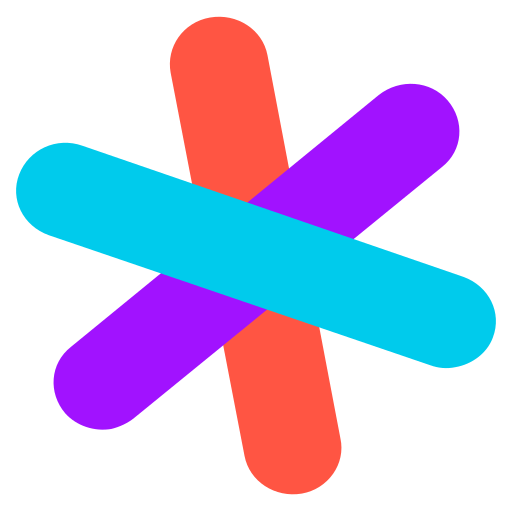
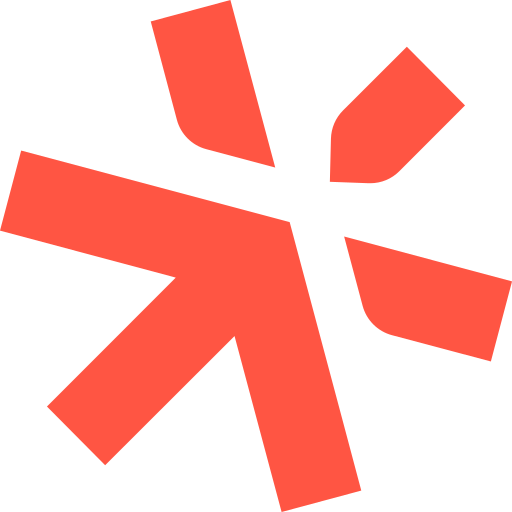
all: update branding, add workspaces mentions

diff --git a/raycast-env.d.ts b/raycast-env.d.ts
@@ -18,7 +18,7 @@ type ExtensionPreferences = {
   "customInstanceProxy"?: string,
   /** Additional features - Toggle the search pattern dropdown in the search command. */
   "featureSearchPatternDropdown": boolean,
-  /** undefined - Telemetry is only reported to the connected Sourcegraph instance, but can be disabled with this toggle. */
+  /** undefined - Telemetry is only reported to the connected Sourcegraph instance or workspace, but can be disabled with this toggle. */
   "featureDisableTelemetry": boolean
 }
 

diff --git a/README.md b/README.md
@@ -40,7 +40,7 @@ Alternatively, you can [install this extension from source](https://github.com/b
 ## Setup
 
 This extension adds a [variety of commands](#commands) for interacting with [Sourcegraph](https://about.sourcegraph.com).
-Some configuration is required to use certain features, most notably the [variants of each command for custom Sourcegraph Instances](#sourcegraph-instance), though you can get started with [Sourcegraph.com commands](#sourcegraphcom) without any additional setup.
+Some configuration is required to use certain features, most notably the [variants of each command for custom Sourcegraph Instances](#sourcegraph-instance-or-workspace), though you can get started with [Sourcegraph.com commands](#sourcegraphcom) without any additional setup.
 
 ### Sourcegraph.com
 
@@ -52,10 +52,18 @@ Copy that access token to the "Sourcegraph.com: Access token" field in the Sourc
 
 To search your private code, please reach out [get a demo of the single-tenant solution](https://sourcegraph.com/contact/request-info) or [try out a self-hosted installation of Sourcegraph](https://about.sourcegraph.com/get-started/self-hosted).
 
-### Sourcegraph Instance
+### Sourcegraph instance or workspace
 
-To start searching code on a custom Sourcegraph instance (e.g. [self-hosted](https://sourcegraph.com/docs/admin/deploy) or [managed](https://sourcegraph.com/docs/cloud)), you can set up access through the 'Sourcegraph Instance' variants of this extensions's commands by configuring the "Sourcegraph Instance: Instance URL" and "Sourcegraph Instance: Access token" fields in the Sourcegraph Raycast extension preferences.
-You can create an access token under the "Access tokens" tab in your user settings on your Sourcegraph instance.
+To start searching code on a custom Sourcegraph instance or workspace:
+
+- [Sourcegraph workspace](https://workspaces.sourcegraph.com/)
+- [self-hosted Sourcegraph instance](https://sourcegraph.com/docs/admin/deploy)
+- [Sourcegraph Cloud instance](https://sourcegraph.com/docs/cloud)
+
+You can set up access through the 'Sourcegraph' variants of this extensions's commands by configuring the "Sourcegraph: URL" and "Sourcegraph Instance: Access token" fields in the Sourcegraph Raycast extension preferences.
+You can create an access token under the "Access tokens" tab in your user settings in Sourcegraph.
+
+For example, you can configure `example.sourcegraph.app` as a URL and go to `example.sourcegraph.app/users/<USERNAME>/settings/tokens` to create an access token for use in this extension.
 
 <br />
 
@@ -70,7 +78,6 @@ Get results as you type on [code search](https://about.sourcegraph.com/code-sear
 #### Search contexts
 
 [Search contexts](https://sourcegraph.com/docs/code-search/features#search-contexts) allow you to narrow down your search to code you care about.
-To get started, you can try the [public Sourcegraph.com search contexts](https://sourcegraph.com/contexts), or configure your own in your Sourcegraph.com account or Sourcegraph instance's "Contexts" page!
 
 The Sourcegraph Raycast extension allows you to set a default context for your searches in the "Search Code" command preferences.
 
@@ -87,7 +94,8 @@ Recent searches are persisted [locally through a native Raycast API](https://dev
 Browse, view, publish, and merge changesets for [batch changes](https://about.sourcegraph.com/batch-changes) straight from Raycast.
 Batch changes automate large-scale code changes to keep your code up to date, fix critical security issues, and pay down tech debt across all of your repositories.
 
-Batch changes are currently only supported on [Sourcegraph Instance](#sourcegraph-instance).
+Batch changes are currently only supported when connected to a [self-hosted Sourcegraph instance](https://sourcegraph.com/docs/admin/deploy)
+or [Sourcegraph Cloud instance](https://sourcegraph.com/docs/cloud).
 
 ![batch changes](metadata/3-batch-change-manage.png)
 
@@ -96,7 +104,8 @@ Batch changes are currently only supported on [Sourcegraph Instance](#sourcegrap
 Browse and preview [search notebooks](https://sourcegraph.com/docs/notebooks) straight from Raycast.
 Notebooks enable powerful live – and persistent – documentation, shareable with your organization or the world.
 
-Notebooks are currently only supported on [Sourcegraph Instance](#sourcegraph-instance).
+Notebooks are currently only supported when connected to a [self-hosted Sourcegraph instance](https://sourcegraph.com/docs/admin/deploy)
+or [Sourcegraph Cloud instance](https://sourcegraph.com/docs/cloud).
 
 ![notebooks](metadata/4-notebook-view.png)
 

diff --git a/CHANGELOG.md b/CHANGELOG.md
@@ -1,6 +1,13 @@
 # Changelog
 
-## [Bug fixes] - 2024-12-19
+## [New logo] - 2025-01-29
+
+- **all**: Sourcegraph got a new logo! All extension and command icons have been updated.
+- **doc**: Updated documentation to indicate [Sourcegraph workspaces](https://workspaces.sourcegraph.com) compatibility.
+- **batch-changes**: The Batch Changes command is now disabled by default.
+- **notebooks**: The Notebook command is now disabled by default.
+
+## [Bug fixes](https://github.com/raycast/extensions/pull/15956) - 2024-12-19
 
 - **search**: Fix some issues where results do not reset when a search returns no results or fails.
 
